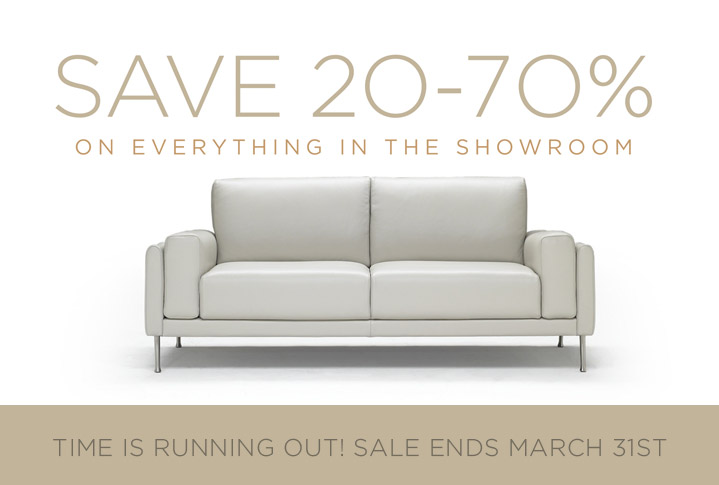
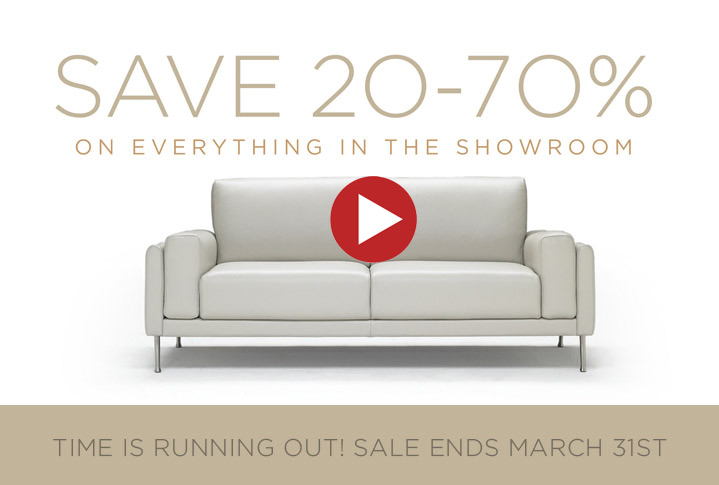
Added video for landing page

Changed region(s): [[0.459, 0.3402, 0.5814, 0.5567]]

diff --git a/themes/furnimobile/script.js b/themes/furnimobile/script.js
@@ -442,13 +442,13 @@
 	    
    		//$("#product-additional").append('<h3 class="furn-ucase furn-red">REQUEST QUOTE</h3><div id="request-data">' + response.data + '</div>').accordion('destroy').accordion();
    		$("#product-additional").accordion('destroy').accordion({
-			icons:false,
-			collapsible: true,
-			active: false,
-			heightStyle:'content',
-			animate:300,
-			active:2
-		});
+  			icons:false,
+  			collapsible: true,
+  			active: false,
+  			heightStyle:'content',
+  			animate:300,
+  			active:2
+  		});
 	
 	    // Attach all JavaScript behaviors to the new content, if it was successfully
 	    // added to the page, this if statement allows #ajax['wrapper'] to be

diff --git a/themes/furnitheme/templates/moving-sale.tpl.php b/themes/furnitheme/templates/moving-sale.tpl.php
@@ -74,7 +74,9 @@
 
 <article id="moving-sale" style="font-size:1.2em; line-height:1.5em">
   <div id="article-top">
-    <img src="<?php print $theme_dir;?>/images/landing/header_info.jpg" alt="Save 20-70% OFF on everything in showroom"/>
+    <a href="http://www.youtube.com/watch?v=TLER-_7ITig&showinfo=0" id="video-link" target="_blank">
+      <img src="<?php print $theme_dir;?>/images/landing/header_info.jpg" alt="Save 20-70% OFF on everything in showroom"/>
+    </a>
   </div>
   <div id="article-main" class="clearfix">
     <div id="info">
@@ -100,3 +102,20 @@
     </section>
   </div>
 </article>
+
+<script>
+ (function($) {
+    $(document).ready(function() {    
+      $("#video-link").on('click', function(event) {
+        event.preventDefault();
+        $.fancybox({          'titleShow'     : false,
+          'transitionIn'  : 'elastic',
+          'transitionOut' : 'elastic',
+          'href'          : this.href.replace(new RegExp("watch\\?v=", "i"), 'v/'),
+          'type'          : 'swf',
+          'swf'           : {'wmode':'transparent','allowfullscreen':'true'}
+        });
+      });
+    });
+ })(jQuery);
+</script>
